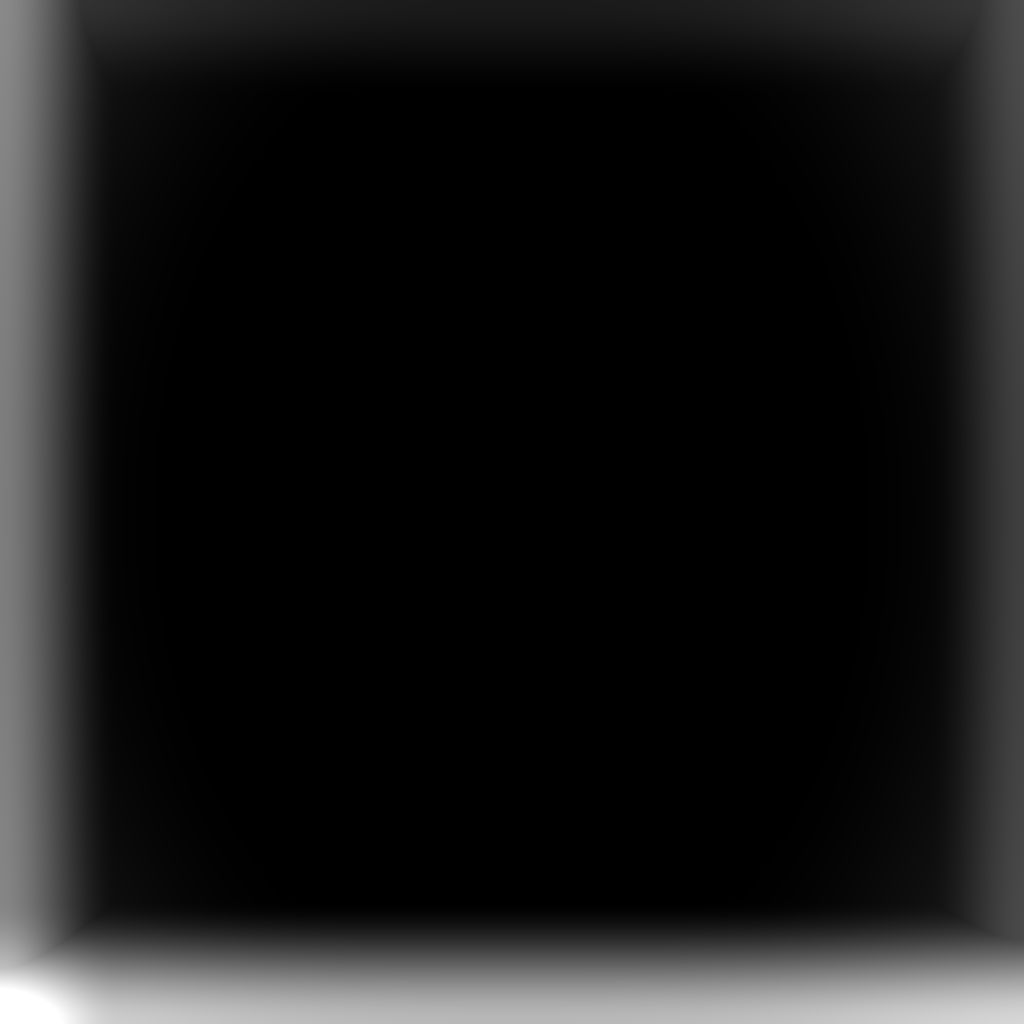
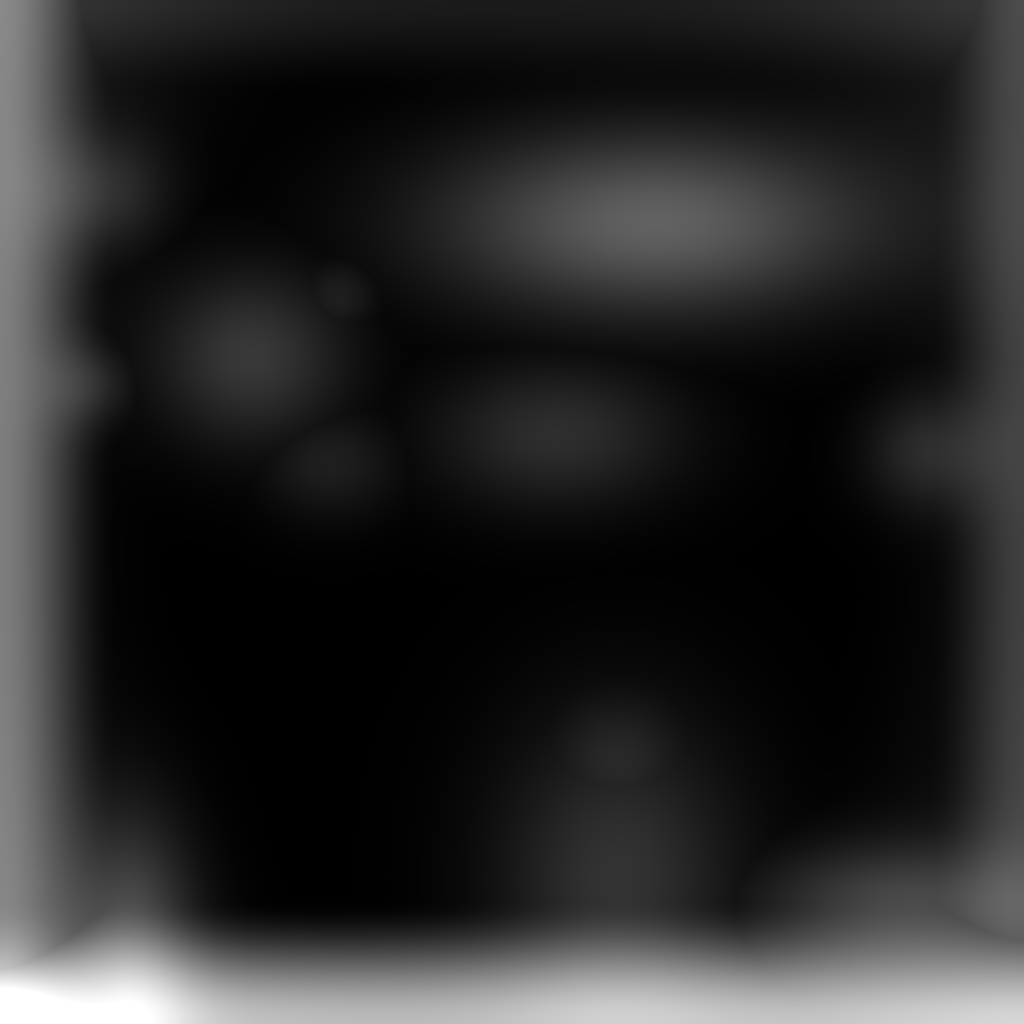
Refresh Blender room lighting bake

diff --git a/scripts/blender/generate-room-light-bakes.py b/scripts/blender/generate-room-light-bakes.py
@@ -17,6 +17,21 @@ WINDOW = {
     "y": 1.45,
 }
 
+FLOOR_OCCLUDERS = [
+    {"id": "desk", "x": 0.56, "z": -2.08, "rx": 0.64, "rz": 0.92, "strength": 0.2},
+    {"id": "desk-chair", "x": 0.56, "z": -1.42, "rx": 0.42, "rz": 0.42, "strength": 0.16},
+    {"id": "bookcase-left", "x": -2.02, "z": -2.52, "rx": 0.34, "rz": 0.76, "strength": 0.3},
+    {"id": "storage-right", "x": 2.02, "z": -2.22, "rx": 0.78, "rz": 0.34, "strength": 0.24},
+    {"id": "lounge-sofa", "x": 0.76, "z": 1.64, "rx": 1.14, "rz": 0.52, "strength": 0.38},
+    {"id": "coffee-table", "x": 0.24, "z": 0.44, "rx": 0.66, "rz": 0.42, "strength": 0.18},
+    {"id": "reading-chair", "x": -1.38, "z": 0.88, "rx": 0.52, "rz": 0.5, "strength": 0.22},
+    {"id": "reading-side-table", "x": -0.92, "z": 1.22, "rx": 0.22, "rz": 0.22, "strength": 0.12},
+    {"id": "reading-floor-cushion", "x": -0.96, "z": 0.28, "rx": 0.38, "rz": 0.32, "strength": 0.12},
+    {"id": "floor-plant", "x": -2.16, "z": 1.82, "rx": 0.34, "rz": 0.34, "strength": 0.16},
+    {"id": "tall-plant-right", "x": 2.2, "z": 0.34, "rx": 0.34, "rz": 0.34, "strength": 0.16},
+    {"id": "reading-lamp", "x": -2.22, "z": 0.72, "rx": 0.24, "rz": 0.24, "strength": 0.14},
+]
+
 
 def parse_args():
     parser = argparse.ArgumentParser()
@@ -42,6 +57,12 @@ def smoothstep(edge0, edge1, value):
 
 def gaussian(value, center, width):
     return math.exp(-((value - center) ** 2) / max(width * width, 0.0001))
+
+
+def elliptical_gaussian(x, z, center_x, center_z, radius_x, radius_z):
+    dx = (x - center_x) / max(radius_x, 0.0001)
+    dz = (z - center_z) / max(radius_z, 0.0001)
+    return math.exp(-(dx * dx + dz * dz))
 
 
 def save_mask(path, width, height, sampler):
@@ -82,7 +103,13 @@ def floor_static_ao(u, v):
     corner = back * left
     perimeter = max(back * 0.72, left * 0.42, right * 0.18, front * 0.1)
     vignette = smoothstep(1.55, 3.05, math.sqrt((x * 0.88) ** 2 + (z * 0.58) ** 2))
-    return clamp(perimeter + corner * 0.38 + vignette * 0.12)
+    furniture = 0.0
+    for occluder in FLOOR_OCCLUDERS:
+        furniture = max(
+            furniture,
+            elliptical_gaussian(x, z, occluder["x"], occluder["z"], occluder["rx"], occluder["rz"]) * occluder["strength"],
+        )
+    return clamp(perimeter + corner * 0.38 + vignette * 0.12 + furniture)
 
 
 def floor_window_wash(u, v):
@@ -93,7 +120,20 @@ def floor_window_wash(u, v):
     beam_width = 0.78 + from_window * 0.92
     beam = gaussian(x, beam_center_x, beam_width) * gaussian(from_window, 0.36, 0.34)
     near_window = gaussian(x, WINDOW["x"], 0.92) * (1.0 - smoothstep(0.0, 1.72, z + depth / 2))
-    return clamp(beam * 0.92 + near_window * 0.38)
+    furniture_shadow = 0.0
+    for occluder in FLOOR_OCCLUDERS:
+        furniture_shadow = max(
+            furniture_shadow,
+            elliptical_gaussian(
+                x,
+                z,
+                occluder["x"] + 0.1,
+                occluder["z"] + 0.14,
+                occluder["rx"] * 1.12,
+                occluder["rz"] * 1.18,
+            ) * occluder["strength"] * 0.52,
+        )
+    return clamp((beam * 0.92 + near_window * 0.38) * (1.0 - furniture_shadow))
 
 
 def back_wall_glow(u, v):

diff --git a/scripts/blender/render-room-reference.py b/scripts/blender/render-room-reference.py
@@ -81,11 +81,11 @@ OBJECTS = [
     },
     {
         "id": "coffee-table-vase",
-        "path": "public/assets/models/polyhaven/ceramic_vase_03.optimized.glb",
+        "path": "public/assets/models/polyhaven/brass_vase_03.optimized.glb",
         "position": (0.42, 0.48),
         "elevation": 0.48,
         "rotation_y": -math.pi / 8,
-        "target_size": 0.2,
+        "target_size": 0.22,
     },
     {
         "id": "window-main",
@@ -145,7 +145,7 @@ OBJECTS = [
     },
     {
         "id": "small-plant",
-        "path": "public/assets/models/polyhaven/ceramic_vase_01.optimized.glb",
+        "path": "public/assets/models/manual/dimensiva-serif-vase-by-kristina-dam-studio.optimized.glb",
         "position": (2.22, -2.02),
         "elevation": 0.96,
         "rotation_y": 0,
@@ -272,17 +272,28 @@ def add_procedural_accents():
     metal_mat = make_mat("brushed dark metal", (0.08, 0.075, 0.07, 1), 0.66, 0.2)
     paper_mat = make_mat("warm art paper", (0.86, 0.80, 0.7, 1), 0.94)
     curtain_mat = make_mat("sheer warm curtain", (0.9, 0.86, 0.78, 1), 0.98)
+    sofa_fabric_mat = make_mat("warm grey sofa fabric", (0.56, 0.54, 0.50, 1), 0.9)
+    linen_mat = make_mat("layered linen pillows", (0.78, 0.72, 0.64, 1), 0.96)
+    rust_mat = make_mat("rust woven throw", (0.74, 0.34, 0.16, 1), 0.94)
+    cushion_mat = make_mat("reading floor cushion", (0.68, 0.58, 0.46, 1), 0.96)
 
     add_plane("iMac screen proxy", (0.5, 0.035, 0.32), (0.58, -2.22, 0.88), (0, 0, 0), black_mat)
     add_plane("iMac lit panel", (0.44, 0.036, 0.26), (0.58, -2.245, 0.89), (0, 0, 0), screen_mat)
     add_plane("iMac stand proxy", (0.08, 0.055, 0.22), (0.58, -2.18, 0.68), (0, 0, 0), metal_mat)
     add_plane("laptop proxy", (0.42, 0.3, 0.025), (0.14, -2.14, 0.59), (0, 0, -0.24), metal_mat)
     add_plane("homepod proxy", (0.16, 0.16, 0.16), (0.92, -2.07, 0.64), (0, 0, 0), black_mat)
+    add_plane("desk notebook proxy", (0.32, 0.22, 0.02), (0.24, -2.12, 0.59), (0, 0, -0.08), paper_mat)
+    add_plane("desk pencil cup proxy", (0.09, 0.09, 0.07), (0.44, -2.04, 0.62), (0, 0, 0), metal_mat)
 
     add_plane("back wall print left", (0.32, 0.025, 0.42), (-1.05, -2.865, 1.48), (0, 0, 0), paper_mat)
     add_plane("back wall print right", (0.36, 0.025, 0.44), (1.86, -2.865, 1.25), (0, 0, 0), paper_mat)
     add_plane("left curtain", (0.48, 0.02, 1.26), (-0.52, -2.83, 1.39), (0, 0, 0), curtain_mat)
     add_plane("right curtain", (0.48, 0.02, 1.26), (1.16, -2.83, 1.39), (0, 0, 0), curtain_mat)
+    add_plane("sofa warm fabric overlay", (2.02, 0.84, 0.08), (0.76, 1.82, 0.48), (0, 0, 0), sofa_fabric_mat)
+    add_plane("sofa linen pillow left", (0.36, 0.28, 0.12), (0.36, 1.26, 0.72), (0, 0, 0.1), linen_mat)
+    add_plane("sofa linen pillow right", (0.32, 0.26, 0.12), (0.76, 1.26, 0.72), (0, 0, -0.08), linen_mat)
+    add_plane("sofa rust throw", (0.68, 0.44, 0.04), (0.66, 1.52, 0.68), (0, 0, 0.04), rust_mat)
+    add_plane("reading cushion proxy", (0.68, 0.54, 0.14), (-0.96, 0.28, 0.09), (0, 0, -math.pi / 7), cushion_mat)
 
 
 def bbox_world(objects):

diff --git a/docs/render-quality-report.md b/docs/render-quality-report.md
@@ -1,6 +1,6 @@
 # Render Quality Report
 
-Generated: 2026-04-28T17:59:36.727Z
+Generated: 2026-04-28T18:49:59.669Z
 
 URL: http://127.0.0.1:5190/
 
@@ -12,23 +12,23 @@ Average perceptual proxy score: 66.3
 
 | Hero set | Avg | Isometric | Bird | POV | Day | Warm | Night |
 | --- | ---: | ---: | ---: | ---: | ---: | ---: | ---: |
-| lounge-accents | 67.2 | 80.4 | 54.9 | 66.2 | 86.7 | 56.3 | 58.6 |
-| designer-lamps | 66.9 | 79.4 | 54.8 | 66.4 | 86.8 | 55.7 | 58.2 |
-| baseline | 64.9 | 71.5 | 56.1 | 67 | 83.5 | 55.7 | 55.4 |
+| lounge-accents | 67.1 | 80.3 | 54.9 | 66.1 | 86.6 | 56.2 | 58.6 |
+| designer-lamps | 66.8 | 79.3 | 54.9 | 66.3 | 86.7 | 55.6 | 58.2 |
+| baseline | 65 | 71.4 | 56.6 | 67 | 84 | 55.6 | 55.4 |
 
 ## Winners By View And Preset
 
 | View/Preset | Winning hero set | Score | Screenshot |
 | --- | --- | ---: | --- |
-| bird:daylight-window | lounge-accents | 75.6 | output/render-quality-metrics/2026-04-28T17-58-33-435Z-acc-bird-day.png |
-| bird:night-room | baseline | 52.3 | output/render-quality-metrics/2026-04-28T17-58-33-435Z-base-bird-night.png |
-| bird:warm-evening | baseline | 41.8 | output/render-quality-metrics/2026-04-28T17-58-33-435Z-base-bird-warm.png |
-| isometric:daylight-window | lounge-accents | 98.8 | output/render-quality-metrics/2026-04-28T17-58-33-435Z-acc-iso-day.png |
-| isometric:night-room | lounge-accents | 74.5 | output/render-quality-metrics/2026-04-28T17-58-33-435Z-acc-iso-night.png |
-| isometric:warm-evening | lounge-accents | 68 | output/render-quality-metrics/2026-04-28T17-58-33-435Z-acc-iso-warm.png |
-| pov:daylight-window | designer-lamps | 86 | output/render-quality-metrics/2026-04-28T17-58-33-435Z-lamp-pov-day.png |
-| pov:night-room | baseline | 52.9 | output/render-quality-metrics/2026-04-28T17-58-33-435Z-base-pov-night.png |
-| pov:warm-evening | baseline | 62.4 | output/render-quality-metrics/2026-04-28T17-58-33-435Z-base-pov-warm.png |
+| bird:daylight-window | baseline | 75.6 | output/render-quality-metrics/2026-04-28T18-48-40-839Z-base-bird-day.png |
+| bird:night-room | baseline | 52.3 | output/render-quality-metrics/2026-04-28T18-48-40-839Z-base-bird-night.png |
+| bird:warm-evening | baseline | 41.8 | output/render-quality-metrics/2026-04-28T18-48-40-839Z-base-bird-warm.png |
+| isometric:daylight-window | lounge-accents | 98.8 | output/render-quality-metrics/2026-04-28T18-48-40-839Z-acc-iso-day.png |
+| isometric:night-room | lounge-accents | 74.5 | output/render-quality-metrics/2026-04-28T18-48-40-839Z-acc-iso-night.png |
+| isometric:warm-evening | lounge-accents | 67.7 | output/render-quality-metrics/2026-04-28T18-48-40-839Z-acc-iso-warm.png |
+| pov:daylight-window | designer-lamps | 85.9 | output/render-quality-metrics/2026-04-28T18-48-40-839Z-lamp-pov-day.png |
+| pov:night-room | baseline | 52.9 | output/render-quality-metrics/2026-04-28T18-48-40-839Z-base-pov-night.png |
+| pov:warm-evening | baseline | 62.3 | output/render-quality-metrics/2026-04-28T18-48-40-839Z-base-pov-warm.png |
 
 ## Reading Rule
 

diff --git a/docs/22-current-room-extreme-quality-plan.md b/docs/22-current-room-extreme-quality-plan.md
@@ -121,6 +121,8 @@ Completed:
 - Desk styling set과 reading floor cushion을 procedural accent로 추가해 데스크/라운지/리딩 영역 사이의 생활감과 밀도를 높였다.
 - 고폴리 Lotus Vase 후보는 runtime budget을 초과시켜 기본값에서 제외하고, budget-safe brass vase와 Serif Vase 조합으로 교체했다.
 - Lounge sofa material을 따뜻한 회색 fabric으로 보정해 isometric에서 큰 검정 덩어리처럼 보이던 문제를 줄였다.
+- 최종 default room 변경 이후 Blender reference object list를 brass vase, Serif Vase, desk styling, sofa textiles, reading floor cushion 상태에 맞춰 갱신했다.
+- Blender CLI로 floor/static AO와 floor/window wash texture bake를 다시 생성했고, 현재 가구 footprint 기반 occlusion을 bake mask에 반영했다.
 
 Final verification:
 
@@ -137,16 +139,16 @@ pnpm render:budget --url=http://127.0.0.1:5190/ --quality=medium
 Final render quality:
 
 - Report: `docs/render-quality-report.md`
-- Latest run: `output/render-quality-metrics/2026-04-28T17-58-33-435Z.json`
+- Latest run: `output/render-quality-metrics/2026-04-28T18-48-40-839Z.json`
 - Average perceptual proxy score: `66.3`
-- Baseline average score: `64.9`
+- Baseline average score: `65.0`
 - Best default decision: keep the improved default composition as baseline. `lounge-accents` still scores higher in aggregate, but the default now carries the core visual upgrades without swapping the room into an A/B decor preset.
 - `darkBlobRatio` stayed below the penalty threshold in all measured views.
 
 Final runtime budget:
 
 - Report: `docs/render-budget-report.md`
-- Latest run: `output/render-budget/2026-04-28T17-58-33-435Z.json`
+- Latest run: `output/render-budget/2026-04-28T18-50-12-157Z.json`
 - Max draw calls: `177`
 - Max triangles: `425,898`
 - Max textures: `81`
@@ -164,3 +166,6 @@ Visual verification artifacts:
 - `output/playwright/final-quality-isometric.png`
 - `output/playwright/final-quality-bird.png`
 - `output/playwright/final-quality-pov.png`
+- `output/playwright/blender-bake-quality-isometric.png`
+- `output/playwright/blender-bake-quality-bird.png`
+- `output/playwright/blender-bake-quality-pov.png`

diff --git a/docs/render-budget-report.md b/docs/render-budget-report.md
@@ -1,6 +1,6 @@
 # Render Budget Report
 
-Generated: 2026-04-28T17:58:54.538Z
+Generated: 2026-04-28T18:50:38.829Z
 
 Quality: `medium`
 
@@ -12,7 +12,7 @@ Render calls and triangles are scene-graph estimates from visible meshes. Textur
 
 - Max draw calls: 177
 - Max triangles: 425,898
-- Max geometries: 156
+- Max geometries: 151
 - Max textures: 81
 
 ## Measurements
@@ -20,8 +20,8 @@ Render calls and triangles are scene-graph estimates from visible meshes. Textur
 | View | Preset | Draw calls | Triangles | Geometries | Textures | DPR |
 | --- | --- | ---: | ---: | ---: | ---: | ---: |
 | isometric | daylight-window | 158 | 219,797 | 143 | 48 | 1 |
-| isometric | warm-evening | 164 | 292,889 | 142 | 49 | 1 |
-| isometric | night-room | 168 | 417,646 | 156 | 58 | 1 |
+| isometric | warm-evening | 158 | 222,639 | 145 | 49 | 1 |
+| isometric | night-room | 168 | 417,646 | 151 | 50 | 1 |
 | bird | daylight-window | 177 | 425,898 | 142 | 71 | 1 |
 | bird | warm-evening | 177 | 425,898 | 142 | 71 | 1 |
 | bird | night-room | 177 | 425,898 | 142 | 68 | 1 |
